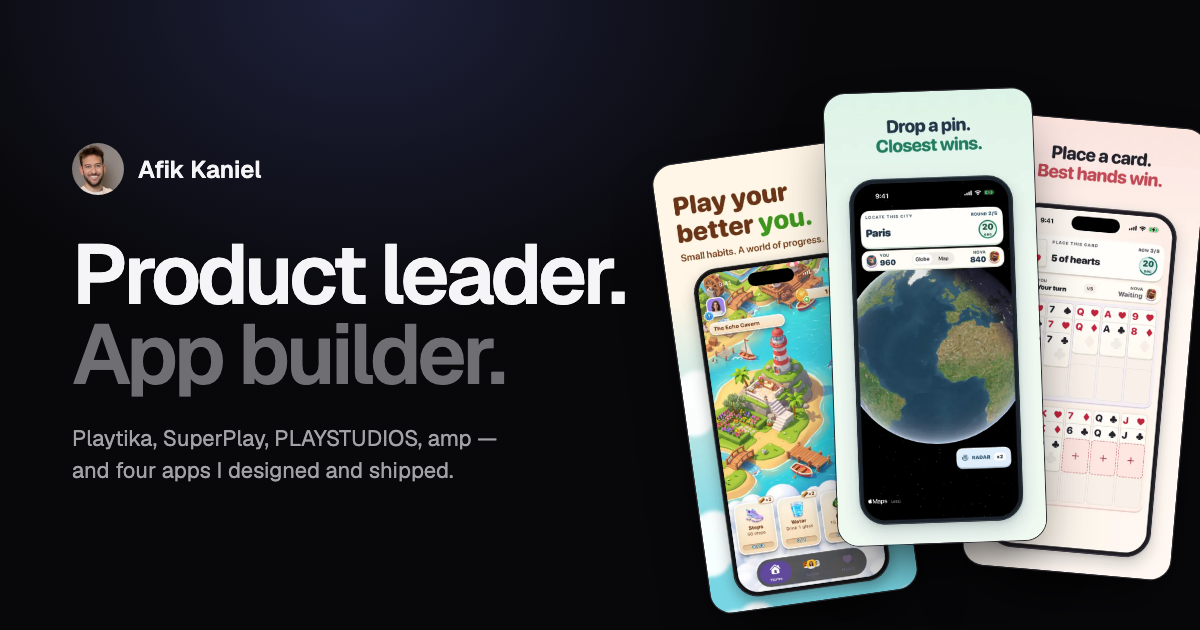
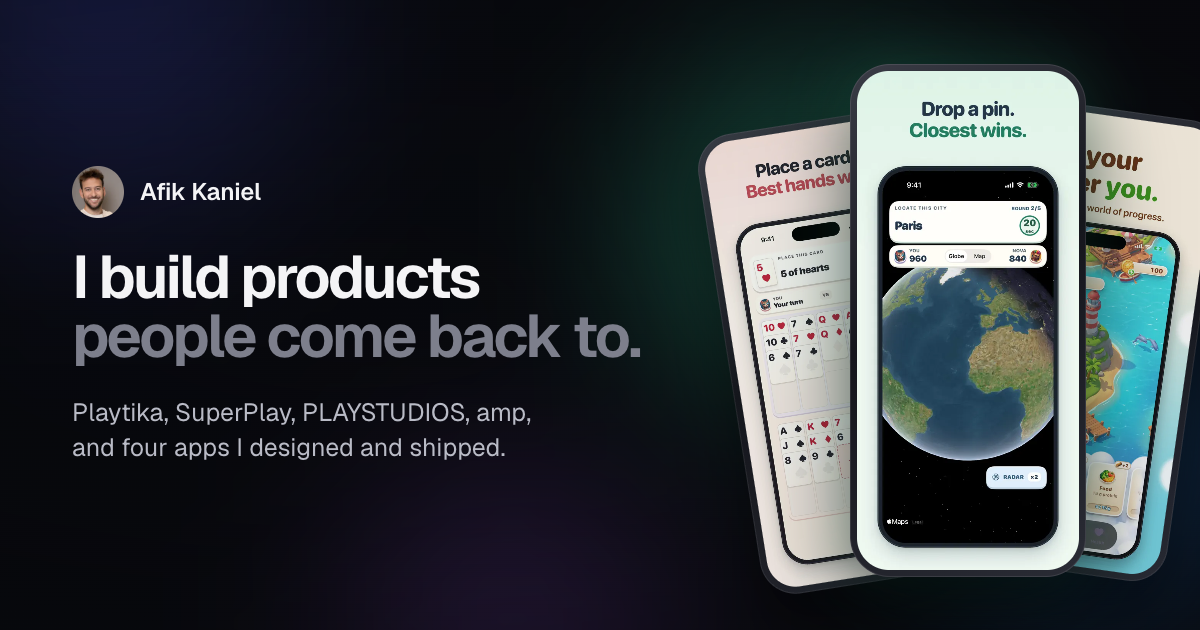
Remove the skills list from About; new link preview image
The preview now shows the site's headline, "I build products people come
back to.", over the liquid light, with Pin-Point in front.

diff --git a/index.html b/index.html
@@ -13,13 +13,13 @@
 <meta property="og:url" content="https://afikkaniel.github.io/portfolio/">
 <meta property="og:title" content="Afik Kaniel — Product Leader & App Builder">
 <meta property="og:description" content="Playtika, SuperPlay, PLAYSTUDIOS, amp — and four apps I designed and shipped.">
-<meta property="og:image" content="https://afikkaniel.github.io/portfolio/assets/og.png">
+<meta property="og:image" content="https://afikkaniel.github.io/portfolio/assets/og.png?v=2">
 <meta property="og:image:width" content="1200">
 <meta property="og:image:height" content="630">
 <meta name="twitter:card" content="summary_large_image">
 <meta name="twitter:title" content="Afik Kaniel — Product Leader & App Builder">
 <meta name="twitter:description" content="Playtika, SuperPlay, PLAYSTUDIOS, amp — and four apps I designed and shipped.">
-<meta name="twitter:image" content="https://afikkaniel.github.io/portfolio/assets/og.png">
+<meta name="twitter:image" content="https://afikkaniel.github.io/portfolio/assets/og.png?v=2">
 
 <link rel="icon" href="assets/favicon.svg" type="image/svg+xml">
 <link rel="apple-touch-icon" href="assets/apple-touch-icon.png">
@@ -85,16 +85,6 @@
           </div>
         </div>
       </div>
-    </div>
-    <div class="wrap about-more">
-      <ul class="skills" aria-label="What I do best">
-        <li>Monetization and in-game economies</li>
-        <li>Retention and LiveOps</li>
-        <li>Gamification of health and fitness</li>
-        <li>Behavioral psychology in product</li>
-        <li>AI-driven product features</li>
-        <li>Taking apps from idea to App Store</li>
-      </ul>
     </div>
   </section>
 

diff --git a/assets/css/site.css b/assets/css/site.css
@@ -383,26 +383,6 @@ main,
   text-wrap: pretty;
 }
 
-.about-more {
-  display: grid;
-  grid-template-columns: minmax(0, 4fr) minmax(0, 8fr);
-  gap: clamp(32px, 6vw, 96px);
-  padding-top: clamp(56px, 7vw, 88px);
-}
-.skills {
-  grid-column: 2;
-  display: grid;
-  grid-template-columns: repeat(3, minmax(0, 1fr));
-  column-gap: 28px;
-}
-.skills li {
-  padding: 12px 0;
-  border-top: 1px solid rgba(255, 255, 255, 0.1);
-  font-size: 15px;
-  line-height: 1.45;
-  color: var(--text-2);
-}
-
 .js-motion .about-scene { height: 250svh; }
 .js-motion .about-stage {
   position: sticky;
@@ -1326,8 +1306,6 @@ html:not(.js-motion) .chapter-nav { display: none; }
   .app-list { grid-template-columns: repeat(2, minmax(0, 1fr)); }
 
   .job-grid { grid-template-columns: 200px minmax(0, 1fr); }
-
-  .skills { grid-template-columns: repeat(2, minmax(0, 1fr)); }
 }
 
 @media (max-width: 760px) {
@@ -1344,8 +1322,6 @@ html:not(.js-motion) .chapter-nav { display: none; }
   /* About: photo above the text. */
   .about-grid { grid-template-columns: 1fr; gap: 20px; }
   .portrait { max-width: 260px; aspect-ratio: 1; border-radius: 22px; }
-  .about-more { grid-template-columns: 1fr; gap: 24px; }
-  .skills { grid-column: 1; grid-template-columns: 1fr; }
   .js-motion .about-stage { align-items: center; }
   .js-motion .portrait { width: min(112px, 13svh); border-radius: 50%; }
   .js-motion .manifesto { font-size: clamp(16px, min(5.4vw, 3.15svh), 24px); }
